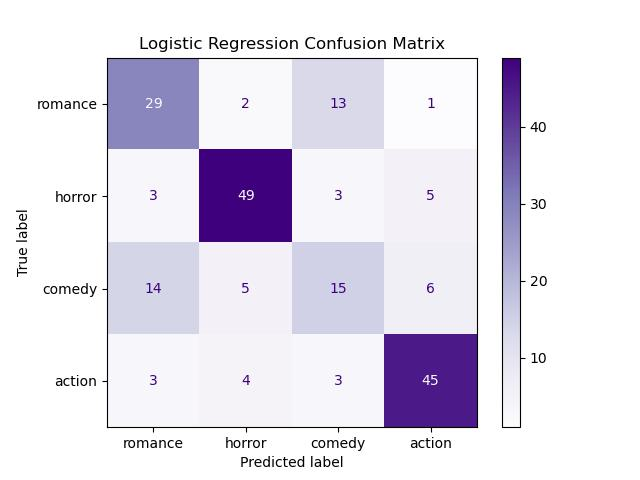
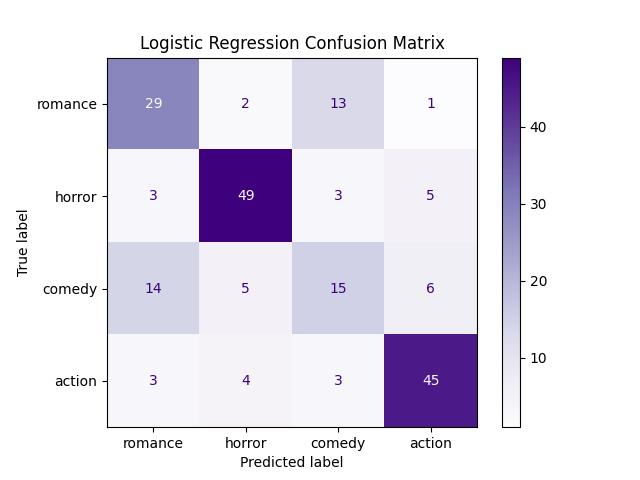
arielle trying to fix things - transformer still has an error

diff --git a/src/transformer.py b/src/transformer.py
@@ -21,7 +21,7 @@ from tensorflow.keras.optimizers import Adam
 from tensorflow.keras.utils import plot_model
 from tensorflow.keras.layers import (MultiHeadAttention, LayerNormalization,
                                      GlobalAveragePooling1D, Add)
-from .utils import make_save_emb_layer, get_embeddings, get_transformer_top_features
+from .utils import make_save_emb_layer, get_embeddings, get_top_transformer_features
 from wordcloud import WordCloud
 
 
@@ -48,14 +48,14 @@ class PositionalEncoding(tf.keras.layers.Layer):
         return cfg
 
 
-def make_save_emb_layer(word_index, embeddings_index, layer_file_name):
-    '''make and save the embedding layer'''
-    embedding_matrix, unknown = get_embedding_matrix(word_index, embeddings_index)
-    embedding_layer = Embedding(embedding_matrix.shape[0], embedding_matrix.shape[1],
-                                weights=[embedding_matrix], trainable=False)
-    with open(layer_file_name, 'wb') as f:
-        pickle.dump(embedding_layer, f, -1)
-    return unknown
+# def make_save_emb_layer(word_index, embeddings_index, layer_file_name):
+#     '''make and save the embedding layer'''
+#     embedding_matrix, unknown = get_embedding_matrix(word_index, embeddings_index)
+#     embedding_layer = Embedding(embedding_matrix.shape[0], embedding_matrix.shape[1],
+#                                 weights=[embedding_matrix], trainable=False)
+#     with open(layer_file_name, 'wb') as f:
+#         pickle.dump(embedding_layer, f, -1)
+#     return unknown
 
 
 def transformer_encoder_block(x, num_heads, ff_dim, dropout_rate=0.1):
@@ -72,7 +72,7 @@ def transformer_encoder_block(x, num_heads, ff_dim, dropout_rate=0.1):
     return x
 
 
-def get_transformer_model(params, num_classes=4, num_heads=4, ff_dim=128, num_transformer_blocks=2, dropout_rate=0.1, embeddings_dim=300):
+def get_transformer_model(embedding_layer, params, num_classes=4, num_heads=4, ff_dim=128, num_transformer_blocks=2, dropout_rate=0.1, embeddings_dim=300):    
     input_layer = Input(shape=(params["MAX_SEQUENCE_LENGTH"],))
 
     x = embedding_layer(input_layer) # (batch, seq_len, 300)
@@ -158,7 +158,7 @@ def train_transformer(df: pd.DataFrame, cfg: dict):
         with open(layer_file, 'rb') as f: 
             embedding_layer = pickle.load(f)
 
-        transformer_model = get_transformer_model(params)
+        transformer_model = get_transformer_model(embedding_layer, params)
 
         t_early_stopping = EarlyStopping(patience=12, restore_best_weights=True)
         t_model_checkpoint = ModelCheckpoint(weights_file,
@@ -181,7 +181,7 @@ def train_transformer(df: pd.DataFrame, cfg: dict):
         model = model = load_model(model_file, custom_objects={'PositionalEncoding': PositionalEncoding})
 
     # evaluate the model
-    evaluate_transformer(model, X_test_lstm, y_test, paths, params)
+    evaluate_transformer(model, tokenizer, X_test_lstm, y_test, paths, params)
 
 
 
@@ -215,7 +215,7 @@ def evaluate_transformer(model, vectorizer, X_test, y_test, paths, params):
 
         print("\n=== Top Features for the Transformer model ===\n", file=f)
         #get top features
-        genre_word_frequencies = get_transformer_top_features(model, vectorizer, n=40)
+        genre_word_frequencies = get_top_transformer_features(model, X_test, vectorizer, n=40)
         
         for genre, frequencies in genre_word_frequencies.items():
             print(f"Top Driving Words for {genre}:", file=f)
@@ -246,7 +246,25 @@ def evaluate_transformer(model, vectorizer, X_test, y_test, paths, params):
     axes = axes.flatten()
 
     for idx, (genre, frequencies) in enumerate(genre_word_frequencies.items()):
-        wc = WordCloud(background_color='white', width=800, height=400, max_words=40)
+    #define a mapping of genres to specific color schemes
+        color_map_selection = {
+            'Romance': 'Reds',
+            'Horror': 'magma',       # Dark purple/orange vibe
+            'Comedy': 'spring',      # Bright and energetic
+            'Action': 'viridis'      # Bold contrast
+        }
+        
+        #fallback
+        current_cmap = color_map_selection.get(genre, 'viridis')
+
+        #pass the colormap to WordCloud
+        wc = WordCloud(
+            background_color='white', 
+            width=800, 
+            height=400, 
+            max_words=40,
+            colormap=current_cmap
+        )
         wc.generate_from_frequencies(frequencies)
         
         axes[idx].imshow(wc, interpolation='bilinear')

diff --git a/src/logistic_regression.py b/src/logistic_regression.py
@@ -13,7 +13,7 @@ from sklearn.feature_extraction.text import CountVectorizer, TfidfVectorizer
 from sklearn.linear_model import LogisticRegression
 from sklearn.metrics import classification_report, confusion_matrix, accuracy_score
 from sklearn.metrics import ConfusionMatrixDisplay
-from .utils import get_top_features
+#from .utils import get_top_features
 from wordcloud import WordCloud
 
 def train_log_reg(df: pd.DataFrame, cfg: dict):
@@ -141,9 +141,25 @@ def evaluate_log_reg(model, X_test, y_test, paths, vectorizer):
     axes = axes.flatten() #flatten 2D array to 1D
 
     for idx, (genre, frequencies) in enumerate(genre_word_frequencies.items()):
-        #create wordcloud
-        wc = WordCloud(background_color='white', width=800, height=400, max_words=40)
-        # Generate using the coefficients as weights
+    #define a mapping of genres to specific color schemes
+        color_map_selection = {
+            'Romance': 'Reds',
+            'Horror': 'magma',       # Dark purple/orange vibe
+            'Comedy': 'spring',      # Bright and energetic
+            'Action': 'viridis'      # Bold contrast
+        }
+        
+        #fallback
+        current_cmap = color_map_selection.get(genre, 'viridis')
+
+        #pass the colormap to WordCloud
+        wc = WordCloud(
+            background_color='white', 
+            width=800, 
+            height=400, 
+            max_words=40,
+            colormap=current_cmap
+        )
         wc.generate_from_frequencies(frequencies)
         
         #plot on subplots

diff --git a/src/lstm.py b/src/lstm.py
@@ -178,11 +178,27 @@ def evaluate_lstm(model, vectorizer, X_test, y_test, paths, params):
     #wordcloud
     fig, axes = plt.subplots(2, 2, figsize=(15, 10))
     axes = axes.flatten() #flatten 2D array to 1D
-
+    
     for idx, (genre, frequencies) in enumerate(top_lstm_features.items()):
-        #create wordcloud
-        wc = WordCloud(background_color='white', width=800, height=400, max_words=40)
-        # Generate using the coefficients as weights
+    #define a mapping of genres to specific color schemes
+        color_map_selection = {
+            'Romance': 'Reds',
+            'Horror': 'magma',       # Dark purple/orange vibe
+            'Comedy': 'spring',      # Bright and energetic
+            'Action': 'viridis'      # Bold contrast
+        }
+        
+        #fallback
+        current_cmap = color_map_selection.get(genre, 'viridis')
+
+        #pass the colormap to WordCloud
+        wc = WordCloud(
+            background_color='white', 
+            width=800, 
+            height=400, 
+            max_words=40,
+            colormap=current_cmap
+        )
         wc.generate_from_frequencies(frequencies)
         
         #plot on subplots

diff --git a/src/naive_bayes.py b/src/naive_bayes.py
@@ -111,8 +111,25 @@ def evaluate_bayes(model, X_test, y_test, paths, vectorizer):
     axes = axes.flatten() #flatten 2D array to 1D
 
     for idx, (genre, frequencies) in enumerate(genre_word_frequencies.items()):
-        #create wordcloud
-        wc = WordCloud(background_color='white', width=800, height=400, max_words=40)
+    #define a mapping of genres to specific color schemes
+        color_map_selection = {
+            'Romance': 'Reds',
+            'Horror': 'magma',       # Dark purple/orange vibe
+            'Comedy': 'spring',      # Bright and energetic
+            'Action': 'viridis'      # Bold contrast
+        }
+        
+        #fallback
+        current_cmap = color_map_selection.get(genre, 'viridis')
+
+        #pass the colormap to WordCloud
+        wc = WordCloud(
+            background_color='white', 
+            width=800, 
+            height=400, 
+            max_words=40,
+            colormap=current_cmap
+        )
         # Generate using the coefficients as weights
         wc.generate_from_frequencies(frequencies)
         

diff --git a/src/process.py b/src/process.py
@@ -113,8 +113,9 @@ def process_data(df: pd.DataFrame, cfg: dict) -> pd.DataFrame:
     df['Final_Summary'] = df['Tokenized_Summary'].apply(remove_numbers_spacy)
 
     # create a summary using spacy
-    df['Summary'] = (df['description']
-                     .apply(lambda x: spacy_summarizer(x, limit=2)))
+    if cfg.get("summary", True):
+        df['Summary'] = (df['description']
+                            .apply(lambda x: spacy_summarizer(x, limit=2)))
     
     # save data to pickle file
     files = cfg.get("files", {})